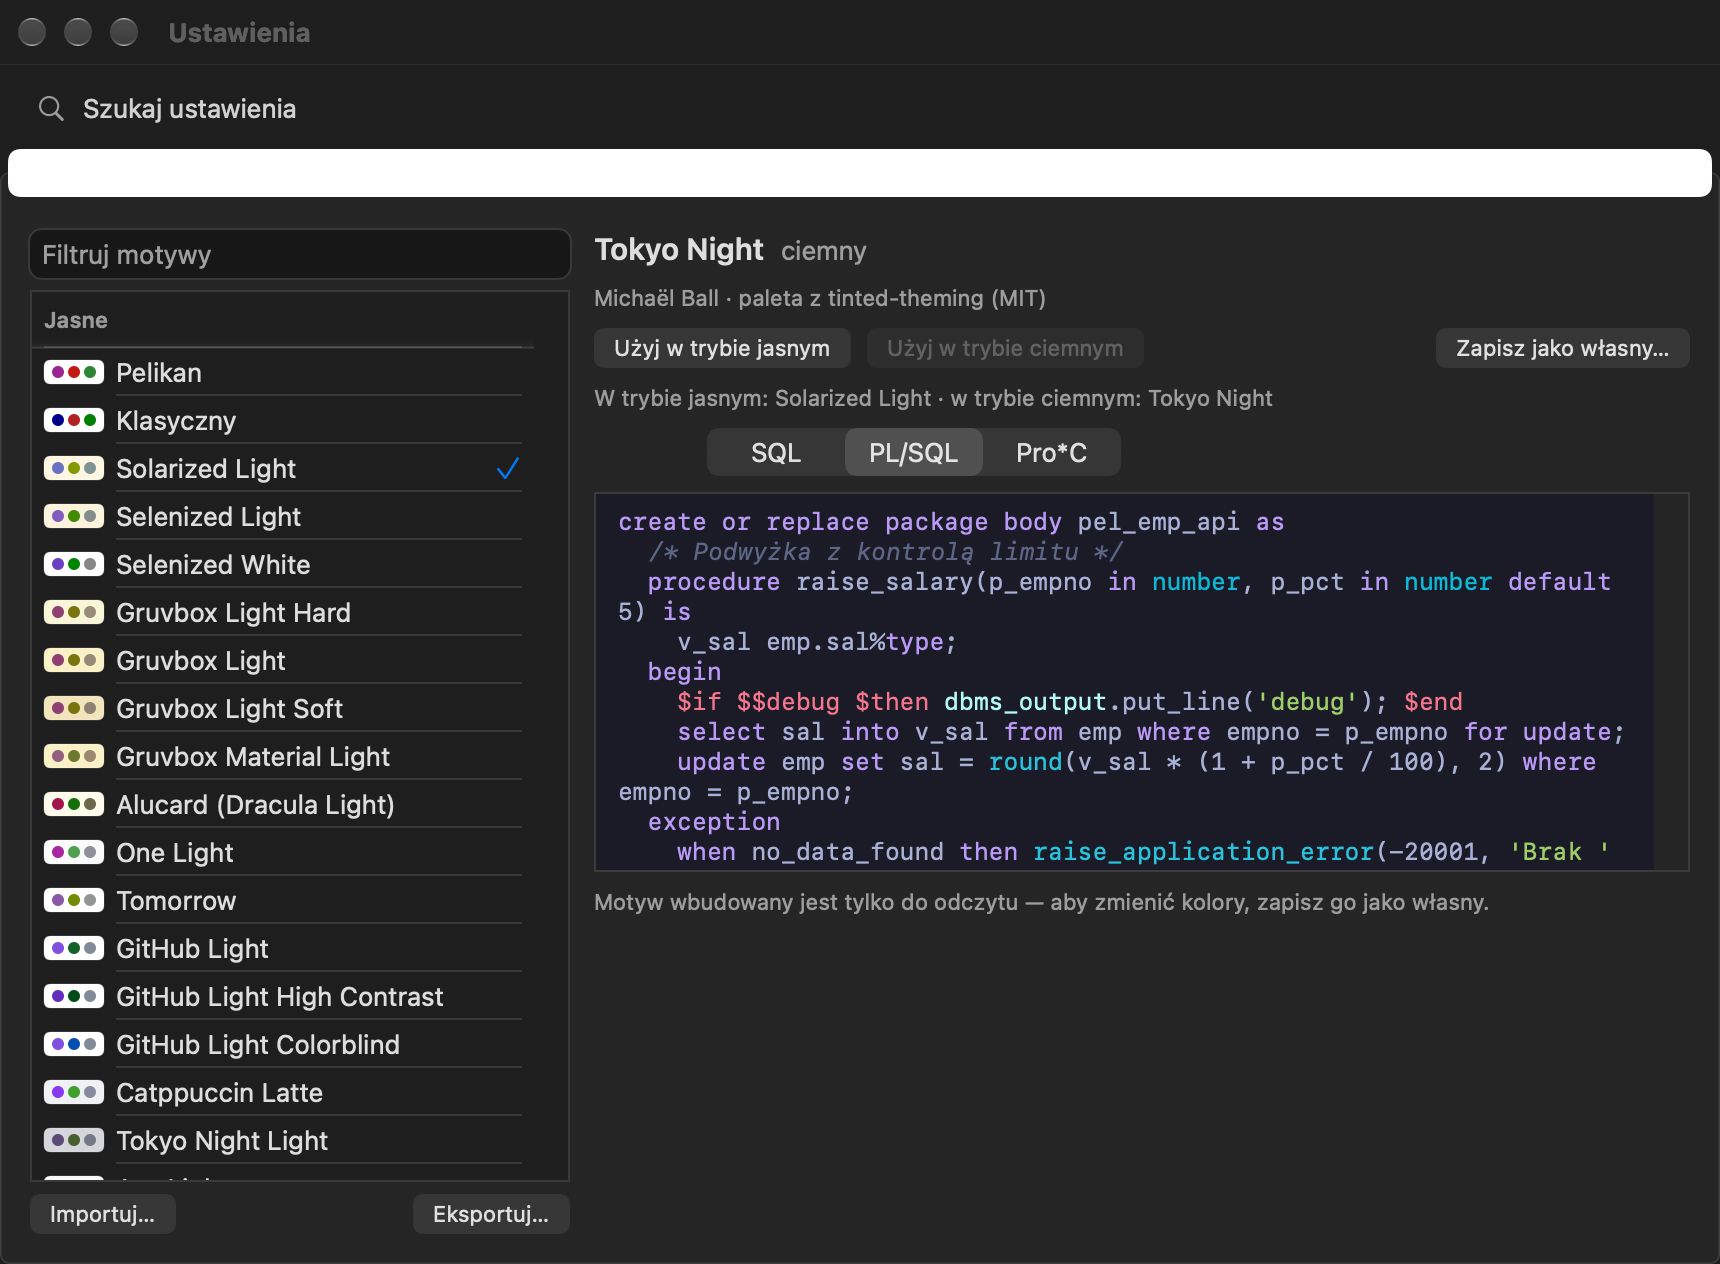
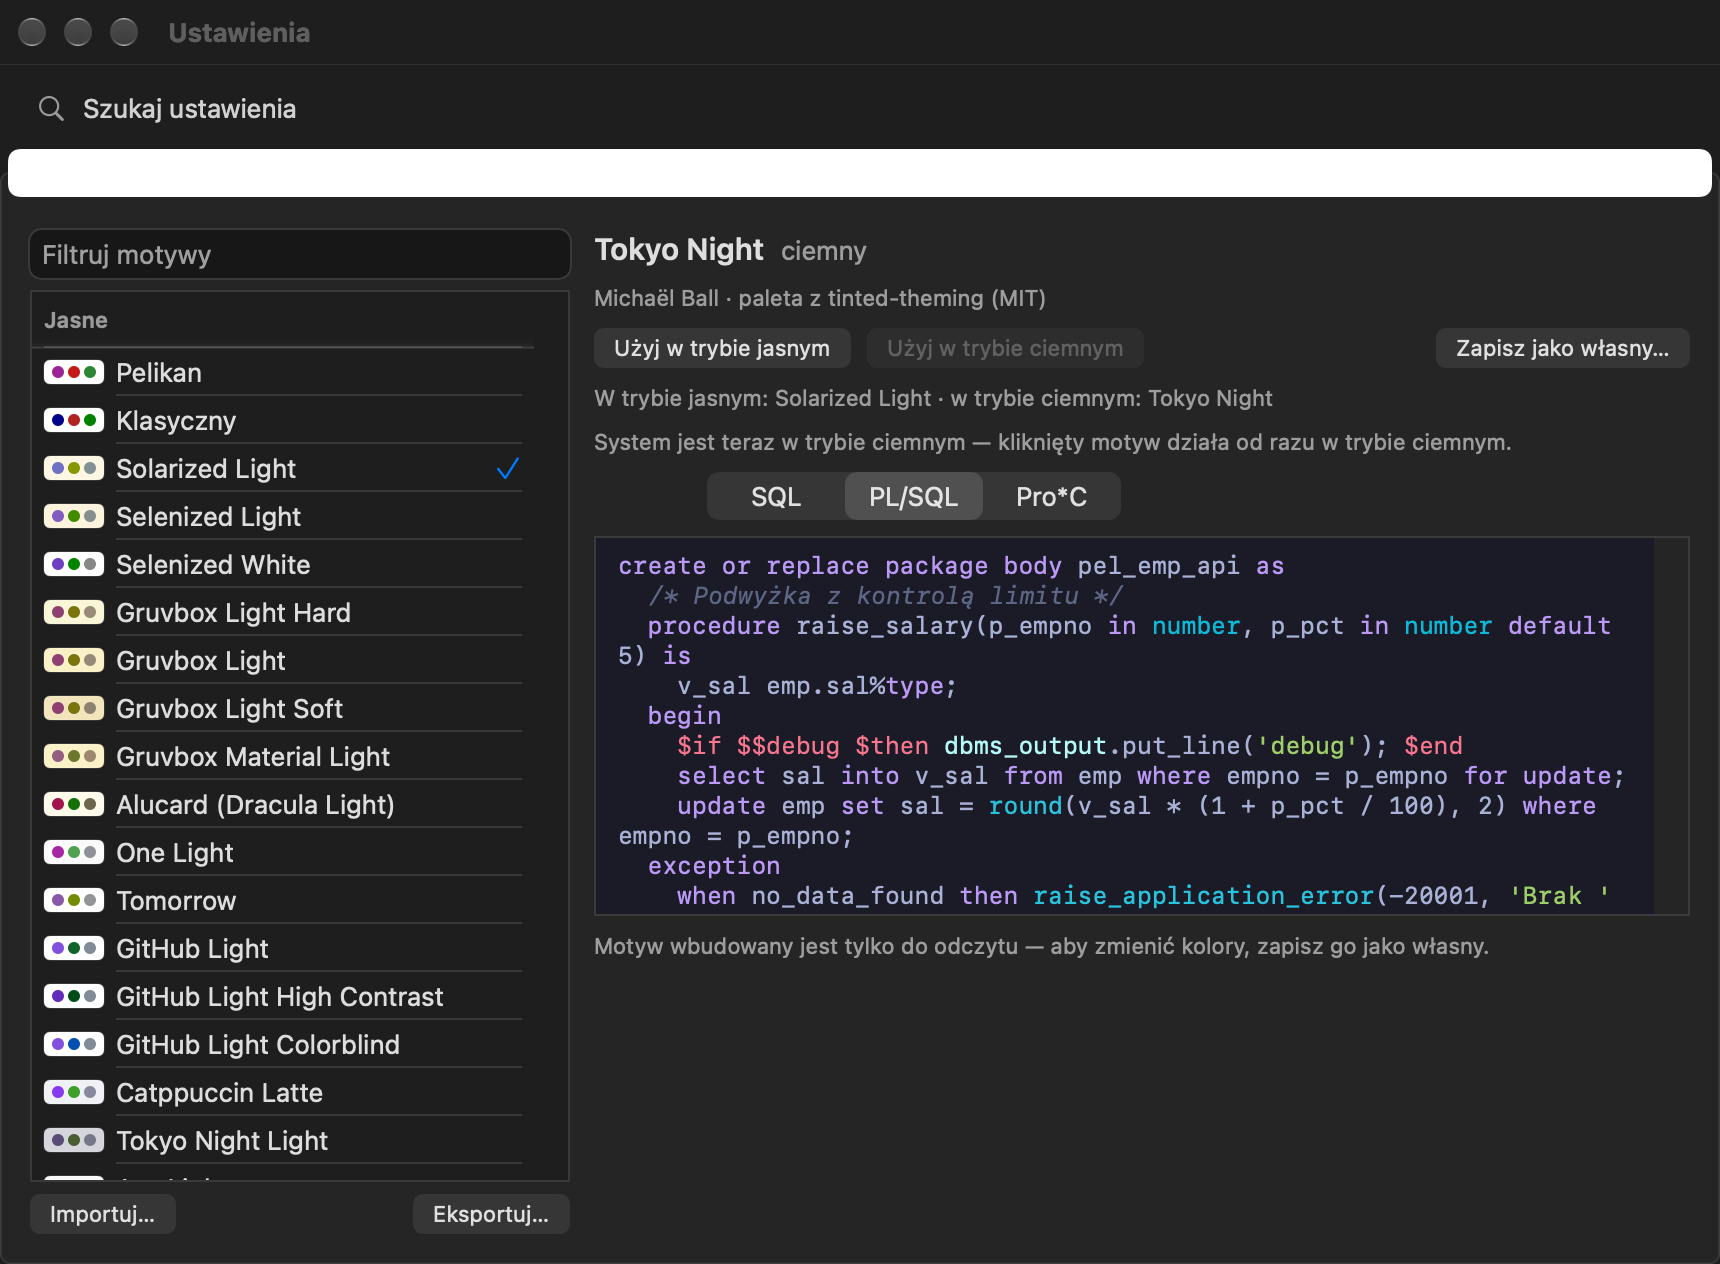
fix(editor): clicking a color theme applies it in the current system mode, warn when editor colors override it (PD-EDIT-001)

Changed region(s): [[0.339, 0.3394, 0.9244, 0.7714], [0.832, 0.432, 0.9244, 0.5245]]

diff --git a/App/Sources/Preferences/ColorsPane.swift b/App/Sources/Preferences/ColorsPane.swift
@@ -35,6 +35,12 @@ struct ColorsPane: View {
                     Section(L10n.tr("Ciemne")) { ForEach(visible(dark: true)) { row($0).tag(Optional($0.id)) } }
                 }
                 .listStyle(.bordered(alternatesRowBackgrounds: false))
+                // Kliknięcie motywu włącza go od razu w trybie, w którym jest teraz system (podgląd na żywo w edytorach);
+                // drugi tryb — przyciskami „Użyj w trybie…”.
+                .onChange(of: selectedID) { _, id in
+                    guard let id else { return }
+                    if NSApp.effectiveAppearance.isDark { workspace.settings.syntaxSchemeDark = id } else { workspace.settings.syntaxSchemeLight = id }
+                }
                 HStack {
                     Button(L10n.tr("Importuj…")) { workspace.perform("editor.syntaxScheme.import") }
                         .help(L10n.tr("Motyw z pliku: Pelikan .json, base16/base24 .yaml, Xcode .xccolortheme, TextMate .tmTheme, Visual Studio Code .json"))
@@ -108,6 +114,15 @@ struct ColorsPane: View {
             .controlSize(.small)
             Text(L10n.tr("W trybie jasnym: \(settings.activeSyntaxScheme(dark: false).name) · w trybie ciemnym: \(settings.activeSyntaxScheme(dark: true).name)"))
                 .font(.uiSecondary).foregroundStyle(.secondary)
+            Text(NSApp.effectiveAppearance.isDark
+                 ? L10n.tr("System jest teraz w trybie ciemnym — kliknięty motyw działa od razu w trybie ciemnym.")
+                 : L10n.tr("System jest teraz w trybie jasnym — kliknięty motyw działa od razu w trybie jasnym."))
+                .font(.uiSecondary).foregroundStyle(.secondary)
+            if !settings.editorColors.isSystem {
+                Label(L10n.tr("Własny kolor tekstu lub tła z karty Edytor › Kolory czcionek przesłania motyw — przycisk Systemowe tam go usuwa."),
+                      systemImage: "exclamationmark.triangle")
+                    .font(.uiSecondary).foregroundStyle(.orange)
+            }
             Picker("", selection: $sample) {
                 ForEach(ColorsPreview.Sample.allCases, id: \.self) { Text($0.title).tag($0) }
             }

diff --git a/docs/manual/de/13-preferencje.md b/docs/manual/de/13-preferencje.md
@@ -490,7 +490,10 @@ Ein ✓ markiert ein verwendetes Schema. **eigenes** markiert ein Schema, das Si
 ### Im hellen Modus verwenden / Im dunklen Modus verwenden
 
 macOS hat einen hellen und einen dunklen Modus (Systemeinstellungen › Erscheinungsbild oder **Allgemein › Darstellung**
-in Pelikan). Pelikan merkt sich **für jeden Modus ein eigenes Schema**. *Standard:* Pelikan hell und Pelikan dunkel.
+in Pelikan). Pelikan merkt sich **für jeden Modus ein eigenes Schema**. **Ein Klick auf ein Schema in der Liste schaltet es sofort in dem
+Modus ein, in dem das System gerade ist** (die Zeile unter den Schaltflächen zeigt, in welchem) — beim Durchsehen der
+Liste sehen Sie die Farben gleich in den offenen Fenstern. **Im hellen Modus verwenden** und **Im dunklen Modus
+verwenden** weisen das ausgewählte Schema einem Modus zu, auch dem gerade nicht sichtbaren. *Standard:* Pelikan hell und Pelikan dunkel.
 Wechselt das System den Modus (z. B. abends im automatischen Modus), wechselt der Editor von selbst zum anderen
 Schema. Die Farben ändern sich sofort in allen offenen Fenstern, ohne Dateien neu zu öffnen.
 
@@ -500,8 +503,8 @@ verwendet wird.
 
 ### Vorschau
 
-Der Umschalter **SQL / PL/SQL / Pro*C** zeigt Beispielcode in den Farben des ausgewählten Schemas. Das Schema muss
-nicht verwendet werden. So können Sie Schemata vergleichen, bevor Sie eines wählen.
+Der Umschalter **SQL / PL/SQL / Pro*C** zeigt Beispielcode in den Farben des ausgewählten Schemas, auch Pro*C-Code,
+den Sie gerade nicht geöffnet haben.
 
 ### Farbkategorien
 

diff --git a/docs/manual/es/13-preferencje.md b/docs/manual/es/13-preferencje.md
@@ -494,7 +494,10 @@ coinciden con lo escrito.
 ### Usar en modo claro / Usar en modo oscuro
 
 macOS tiene un modo claro y uno oscuro (Ajustes del Sistema › Apariencia, o **General › Aspecto** en Pelikan). Pelikan
-recuerda **un tema distinto para cada modo**. *Por defecto:* Pelikan claro y Pelikan oscuro. Cuando el sistema cambia de
+recuerda **un tema distinto para cada modo**. **Al hacer clic en un tema de la lista, se activa al instante en el modo en
+que está ahora el sistema** (la línea bajo los botones indica cuál), así que al recorrer la lista ve los colores enseguida
+en las ventanas abiertas. **Usar en modo claro** y **Usar en modo oscuro** asignan el tema seleccionado a un modo, también
+al que no se ve ahora. *Por defecto:* Pelikan claro y Pelikan oscuro. Cuando el sistema cambia de
 modo (por ejemplo, por la tarde con el modo automático), el editor pasa solo al otro tema. Los colores cambian al
 instante en todas las ventanas abiertas, sin volver a abrir los archivos.
 
@@ -503,8 +506,8 @@ independiente del resto de la ventana. La línea bajo los botones muestra qué t
 
 ### Vista previa
 
-El selector **SQL / PL/SQL / Pro*C** muestra código de ejemplo con los colores del tema seleccionado. El tema no tiene
-que estar en uso. Así puede comparar temas antes de elegir uno.
+El selector **SQL / PL/SQL / Pro*C** muestra código de ejemplo con los colores del tema seleccionado, también código Pro*C
+que no tenga abierto.
 
 ### Categorías de colores
 

diff --git a/docs/manual/pl/13-preferencje.md b/docs/manual/pl/13-preferencje.md
@@ -470,7 +470,10 @@ tekstu.
 ### Użyj w trybie jasnym / Użyj w trybie ciemnym
 
 macOS ma tryb jasny i ciemny (Ustawienia systemowe › Wygląd albo karta **Ogólne › Wygląd** w Pelikanie). Pelikan
-pamięta **osobny motyw dla każdego trybu**. *Domyślnie:* Pelikan jasny i Pelikan ciemny. Gdy system zmienia tryb
+pamięta **osobny motyw dla każdego trybu**. **Kliknięcie motywu na liście od razu włącza go w trybie, w którym
+jest teraz system** (napis pod przyciskami podpowiada, w którym), więc przeglądając listę, widzisz kolory od razu
+w otwartych oknach. Przyciski **Użyj w trybie jasnym** i **Użyj w trybie ciemnym** przypisują zaznaczony motyw
+wybranemu trybowi — także temu, którego teraz nie widać. *Domyślnie:* Pelikan jasny i Pelikan ciemny. Gdy system zmienia tryb
 (np. wieczorem przy trybie automatycznym), edytor sam przełącza się na drugi motyw. Kolory zmieniają się od razu we
 wszystkich otwartych oknach, bez ponownego otwierania plików.
 
@@ -479,8 +482,8 @@ okna. Wiersz pod przyciskami pokazuje, który motyw jest teraz w użyciu w każd
 
 ### Podgląd
 
-Przełącznik **SQL / PL/SQL / Pro*C** pokazuje przykład kodu w kolorach zaznaczonego motywu. Motyw nie musi być
-w użyciu. Tak możesz porównać motywy, zanim któryś wybierzesz.
+Przełącznik **SQL / PL/SQL / Pro*C** pokazuje przykład kodu w kolorach zaznaczonego motywu, także kodu Pro*C,
+którego nie masz akurat otwartego.
 
 ### Kategorie kolorów
 

diff --git a/docs/manual/en/13-preferencje.md b/docs/manual/en/13-preferencje.md
@@ -459,7 +459,10 @@ match what you type.
 ### Use in Light Mode / Use in Dark Mode
 
 macOS has a light and a dark mode (System Settings › Appearance, or **General › Appearance** in Pelikan). Pelikan
-remembers **a separate theme for each mode**. *Default:* Pelikan light and Pelikan dark. When the system switches mode
+remembers **a separate theme for each mode**. **Clicking a theme in the list applies it at once in the mode the system
+is in now** (the line under the buttons tells you which), so while browsing the list you see the colors in open
+windows right away. **Use in Light Mode** and **Use in Dark Mode** assign the selected theme to a chosen mode — also the
+one not visible now. *Default:* Pelikan light and Pelikan dark. When the system switches mode
 (for example in the evening with automatic mode), the editor switches to the other theme by itself. Colors change at
 once in all open windows, without reopening files.
 
@@ -468,8 +471,8 @@ independent of the rest of the window. The line under the buttons shows which th
 
 ### Preview
 
-The **SQL / PL/SQL / Pro*C** switch shows sample code in the colors of the selected theme. The theme does not have to
-be in use. This way you can compare themes before choosing one.
+The **SQL / PL/SQL / Pro*C** switch shows sample code in the colors of the selected theme, including Pro*C code you
+may not have open.
 
 ### Color categories
 

diff --git a/docs/DECISIONS.md b/docs/DECISIONS.md
@@ -3825,3 +3825,11 @@ gotowych, dobrze ocenianych wzorców jasnych i ciemnych; „może znajdziesz got
   `EXEC SQL|ORACLE|TOOLS … ;` i bloki `EXEC SQL EXECUTE … END-EXEC;` leksowane jak SQL/PL/SQL (zmienne hosta `:x` jak
   zmienne wiązane). Pliki .pc, .pcc, .c i .h; kolorowanie całego tekstu przy każdej zmianie (pliki Pro*C są małe wobec
   progu, przy którym przyrostowe ma znaczenie). Gotowych motywów dla Pro*C nie ma — kolory z motywu.
+
+### D228 · 2026-11-05 — Karta Kolory: kliknięcie motywu włącza go od razu
+
+**Zgłoszenie właściciela:** „Wybrałem w ustawieniach i nic”. Kliknięcie motywu na liście tylko go zaznaczało (podgląd);
+włączały go dopiero przyciski „Użyj w trybie jasnym/ciemnym”, a przycisk trybu innego niż bieżący nie zmienia nic
+widocznego. Teraz kliknięcie motywu włącza go od razu w trybie, w którym jest system (jak wybór motywu w Xcode),
+a przyciski przypisują motyw drugiemu trybowi. Karta mówi, w którym trybie jest system, i ostrzega, gdy własny
+kolor tekstu albo tła z Edytor › Kolory czcionek przesłania motyw.

diff --git a/docs/NOWOSCI.md b/docs/NOWOSCI.md
@@ -2,6 +2,12 @@
 
 Wydania stabilne od 1.0.0 (numeracja: D184). Historia bet 7.9.0–10.5.0: [`docs/BETA.md`](BETA.md).
 
+## 1.21.2 — motyw kolorów włącza się kliknięciem
+
+- **Ustawienia › Kolory:** kliknięcie motywu na liście od razu włącza go w bieżącym trybie systemu (jasnym albo
+  ciemnym); przyciski „Użyj w trybie…” przypisują motyw drugiemu trybowi. Ostrzeżenie, gdy własny kolor tekstu
+  albo tła z karty Edytor przesłania motyw.
+
 ## 1.21.1 — motywy kolorowania składni, kolorowanie Pro*C
 
 - **98 motywów kolorów:** domyślny Pelikan, Klasyczny i 95 znanych motywów jasnych i ciemnych (Solarized, Gruvbox,
